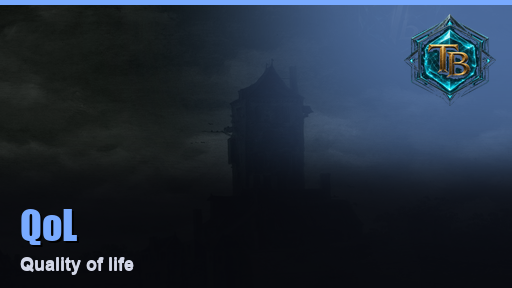
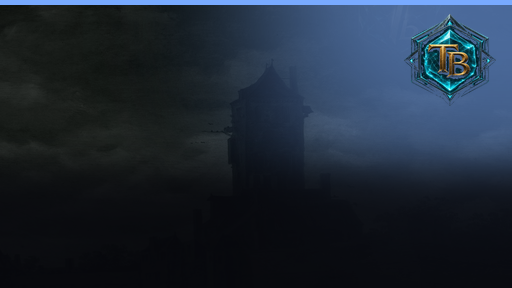
card art without baked text — popup overlays the name itself

Changed region(s): [[0.0312, 0.7188, 0.1562, 0.875], [0.0312, 0.875, 0.2812, 0.9688]]

diff --git a/images/make_cards.py b/images/make_cards.py
@@ -84,14 +84,8 @@ for fname, title, accent, tagline in CARDS:
     cr = ImageDraw.Draw(crest)
     card.paste(crest, (W - 108, 14), crest)
 
-    # title + tagline
-    f_title = title_font(40)
-    f_small = small_font()
-    x, y = 20, H - 88
-    d.text((x + 2, y + 2), title, font=f_title, fill=(0, 0, 0))         # shadow
-    d.text((x, y), title, font=f_title, fill=accent)
-    d.text((x, y + 54), tagline, font=f_small, fill=(210, 214, 230))
-    d.text((x, y + 54 - 1), tagline, font=f_small, fill=(210, 214, 230))
+    # no baked text — the popup overlays the (editable) script name itself;
+    # baked titles collided with that overlay on both renders
 
     card.save(f"{ROOT}\\{fname}", optimize=True)
     print("wrote", fname)
